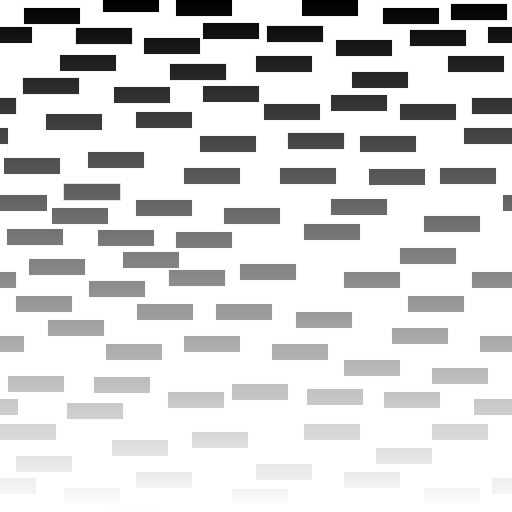
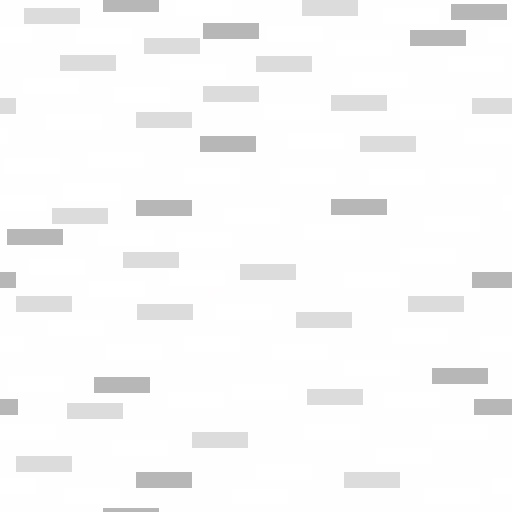
Added Sharp Fur Support

diff --git a/Source/BlenderPinataFurPlugin.py b/Source/BlenderPinataFurPlugin.py
@@ -11,7 +11,7 @@
 bl_info = {
     "name": "Shell Fur Tool",
     "author": "SolarCookies",
-    "version": (0, 1, 4),  # Updated version
+    "version": (0, 1, 6),  # Updated version
     "blender": (4, 4, 1),
     "location": "3D Viewport > Sidebar > Shell Fur Tool",
     "description": "A Tool to add Shell Fur to your model",
@@ -41,6 +41,8 @@ class VIEW3D_PT_my_custom_panel(bpy.types.Panel):
         row.prop(context.scene, "pinata_texture2", text="Mask")
         row = layout.row()
         row.prop(context.scene, "pinata_texture3", text="Fur Shape")
+        row = layout.row()
+        row.prop(context.scene, "pinata_shape_lerp", text="Shape Heightmap")
         
         # UV Map Selector
         row = layout.row()
@@ -84,7 +86,8 @@ class OPERATOR_OT_rebuild_fur(bpy.types.Operator):
         PinataName = bpy.context.scene.pinata_object.name
         ColorTexture = bpy.context.scene.pinata_texture1.name  
         FurMaskTexture = bpy.context.scene.pinata_texture2.name  
-        FurPatternTexture = bpy.context.scene.pinata_texture3.name  
+        FurPatternTexture = bpy.context.scene.pinata_texture3.name
+        ShapeLerp = bpy.context.scene.pinata_shape_lerp  
         Shade = bpy.context.scene.pinata_fur_shade
         FurSize = bpy.context.scene.pinata_fur_density
         FurLength = bpy.context.scene.pinata_fur_length
@@ -109,7 +112,7 @@ class OPERATOR_OT_rebuild_fur(bpy.types.Operator):
             assert(bsdf)
                 
             maskmat.blend_method  = 'BLEND'
-            maskmat.surface_render_method   = 'NONE'
+            maskmat.surface_render_method   = 'DITHERED'
                 
             alphavalue = nodes.new(type="ShaderNodeValue")
             alphavalue.outputs[0].default_value = 0.0
@@ -277,8 +280,12 @@ class OPERATOR_OT_rebuild_fur(bpy.types.Operator):
                     furpnode.location.x = -1000        
                     furpnode.location.y = -600 
                     
-                    
-                    
+                    # Multiply alpha by heightmap
+                    alpha_mult_node = nodes.new(type="ShaderNodeMath")
+                    alpha_mult_node.operation = 'MULTIPLY'
+                    alpha_mult_node.location.x = -300
+                    alpha_mult_node.location.y = -600
+
                     #Setup add for UV offset per layer
                     uvaddnode = nodes.new(type="ShaderNodeVectorMath")
                     uvaddnode.operation = 'ADD'
@@ -334,8 +341,51 @@ class OPERATOR_OT_rebuild_fur(bpy.types.Operator):
                     
                     node_tree.links.new(furmnode.outputs[0], mixalphanode.inputs[0])
                     node_tree.links.new(furpnode.outputs[1], mixalphanode.inputs[2])
+
+                    # If heightmap option is enabled, use step function: floorclamped(((ShapeColor*16) / Layer Number))
                     
-                    node_tree.links.new(mixalphanode.outputs["Result"], bsdf.inputs["Alpha"])
+                    # Add math nodes for the step function
+                    # 1. Multiply ShapeColor (furpnode.outputs[0]) by 16
+                    mult_node = nodes.new(type="ShaderNodeMath")
+                    mult_node.operation = 'MULTIPLY'
+                    mult_node.inputs[1].default_value = 16.0
+                    mult_node.location.x = -100
+                    mult_node.location.y = -700
+
+                    # 2. Divide by Layer Number (a)
+                    div_node = nodes.new(type="ShaderNodeMath")
+                    div_node.operation = 'DIVIDE'
+                    div_node.inputs[1].default_value = float(a)
+                    div_node.location.x = 100
+                    div_node.location.y = -700
+
+                    # 3. Floor
+                    floor_node = nodes.new(type="ShaderNodeMath")
+                    floor_node.operation = 'FLOOR'
+                    floor_node.location.x = 300
+                    floor_node.location.y = -700
+
+                    # 4. Clamp (simulate floorclamped)
+                    clamp_node = nodes.new(type="ShaderNodeClamp")
+                    clamp_node.inputs['Min'].default_value = 0.0
+                    clamp_node.inputs['Max'].default_value = 1.0
+                    clamp_node.location.x = 500
+                    clamp_node.location.y = -700
+
+
+                    if ShapeLerp:
+                        # Link the math nodes
+                        node_tree.links.new(furpnode.outputs[0], mult_node.inputs[0])
+                        node_tree.links.new(mult_node.outputs[0], div_node.inputs[0])
+                        node_tree.links.new(div_node.outputs[0], floor_node.inputs[0])
+                        node_tree.links.new(floor_node.outputs[0], clamp_node.inputs['Value'])
+
+                        # Use the result as the alpha input
+                        node_tree.links.new(mixalphanode.outputs["Result"], alpha_mult_node.inputs[0])
+                        node_tree.links.new(clamp_node.outputs['Result'], alpha_mult_node.inputs[1])
+                        node_tree.links.new(alpha_mult_node.outputs[0], bsdf.inputs["Alpha"])
+                    else:
+                        node_tree.links.new(mixalphanode.outputs["Result"], bsdf.inputs["Alpha"])
                     
                     # Set Material Blend mode to alpha clip
                     
@@ -397,6 +447,11 @@ def register():
         type=bpy.types.Image,
         name="Fur Shape Texture",
         description="A texture to define the shape of the fur",
+    )
+    bpy.types.Scene.pinata_shape_lerp = bpy.props.BoolProperty(
+        name="Use Shape Heightmap",
+        description="Allows you to shape the fur using a height map on the fur shape texture (For pointy fur)",
+        default=False,
     )
     bpy.types.Scene.pinata_uv_map = bpy.props.StringProperty(
         name="Fur UV Map",
@@ -465,6 +520,7 @@ def unregister():
     del bpy.types.Scene.pinata_texture1
     del bpy.types.Scene.pinata_texture2
     del bpy.types.Scene.pinata_texture3
+    del bpy.types.Scene.pinata_shape_lerp
     del bpy.types.Scene.pinata_uv_map
     del bpy.types.Scene.pinata_fur_density
     del bpy.types.Scene.pinata_fur_resolution
